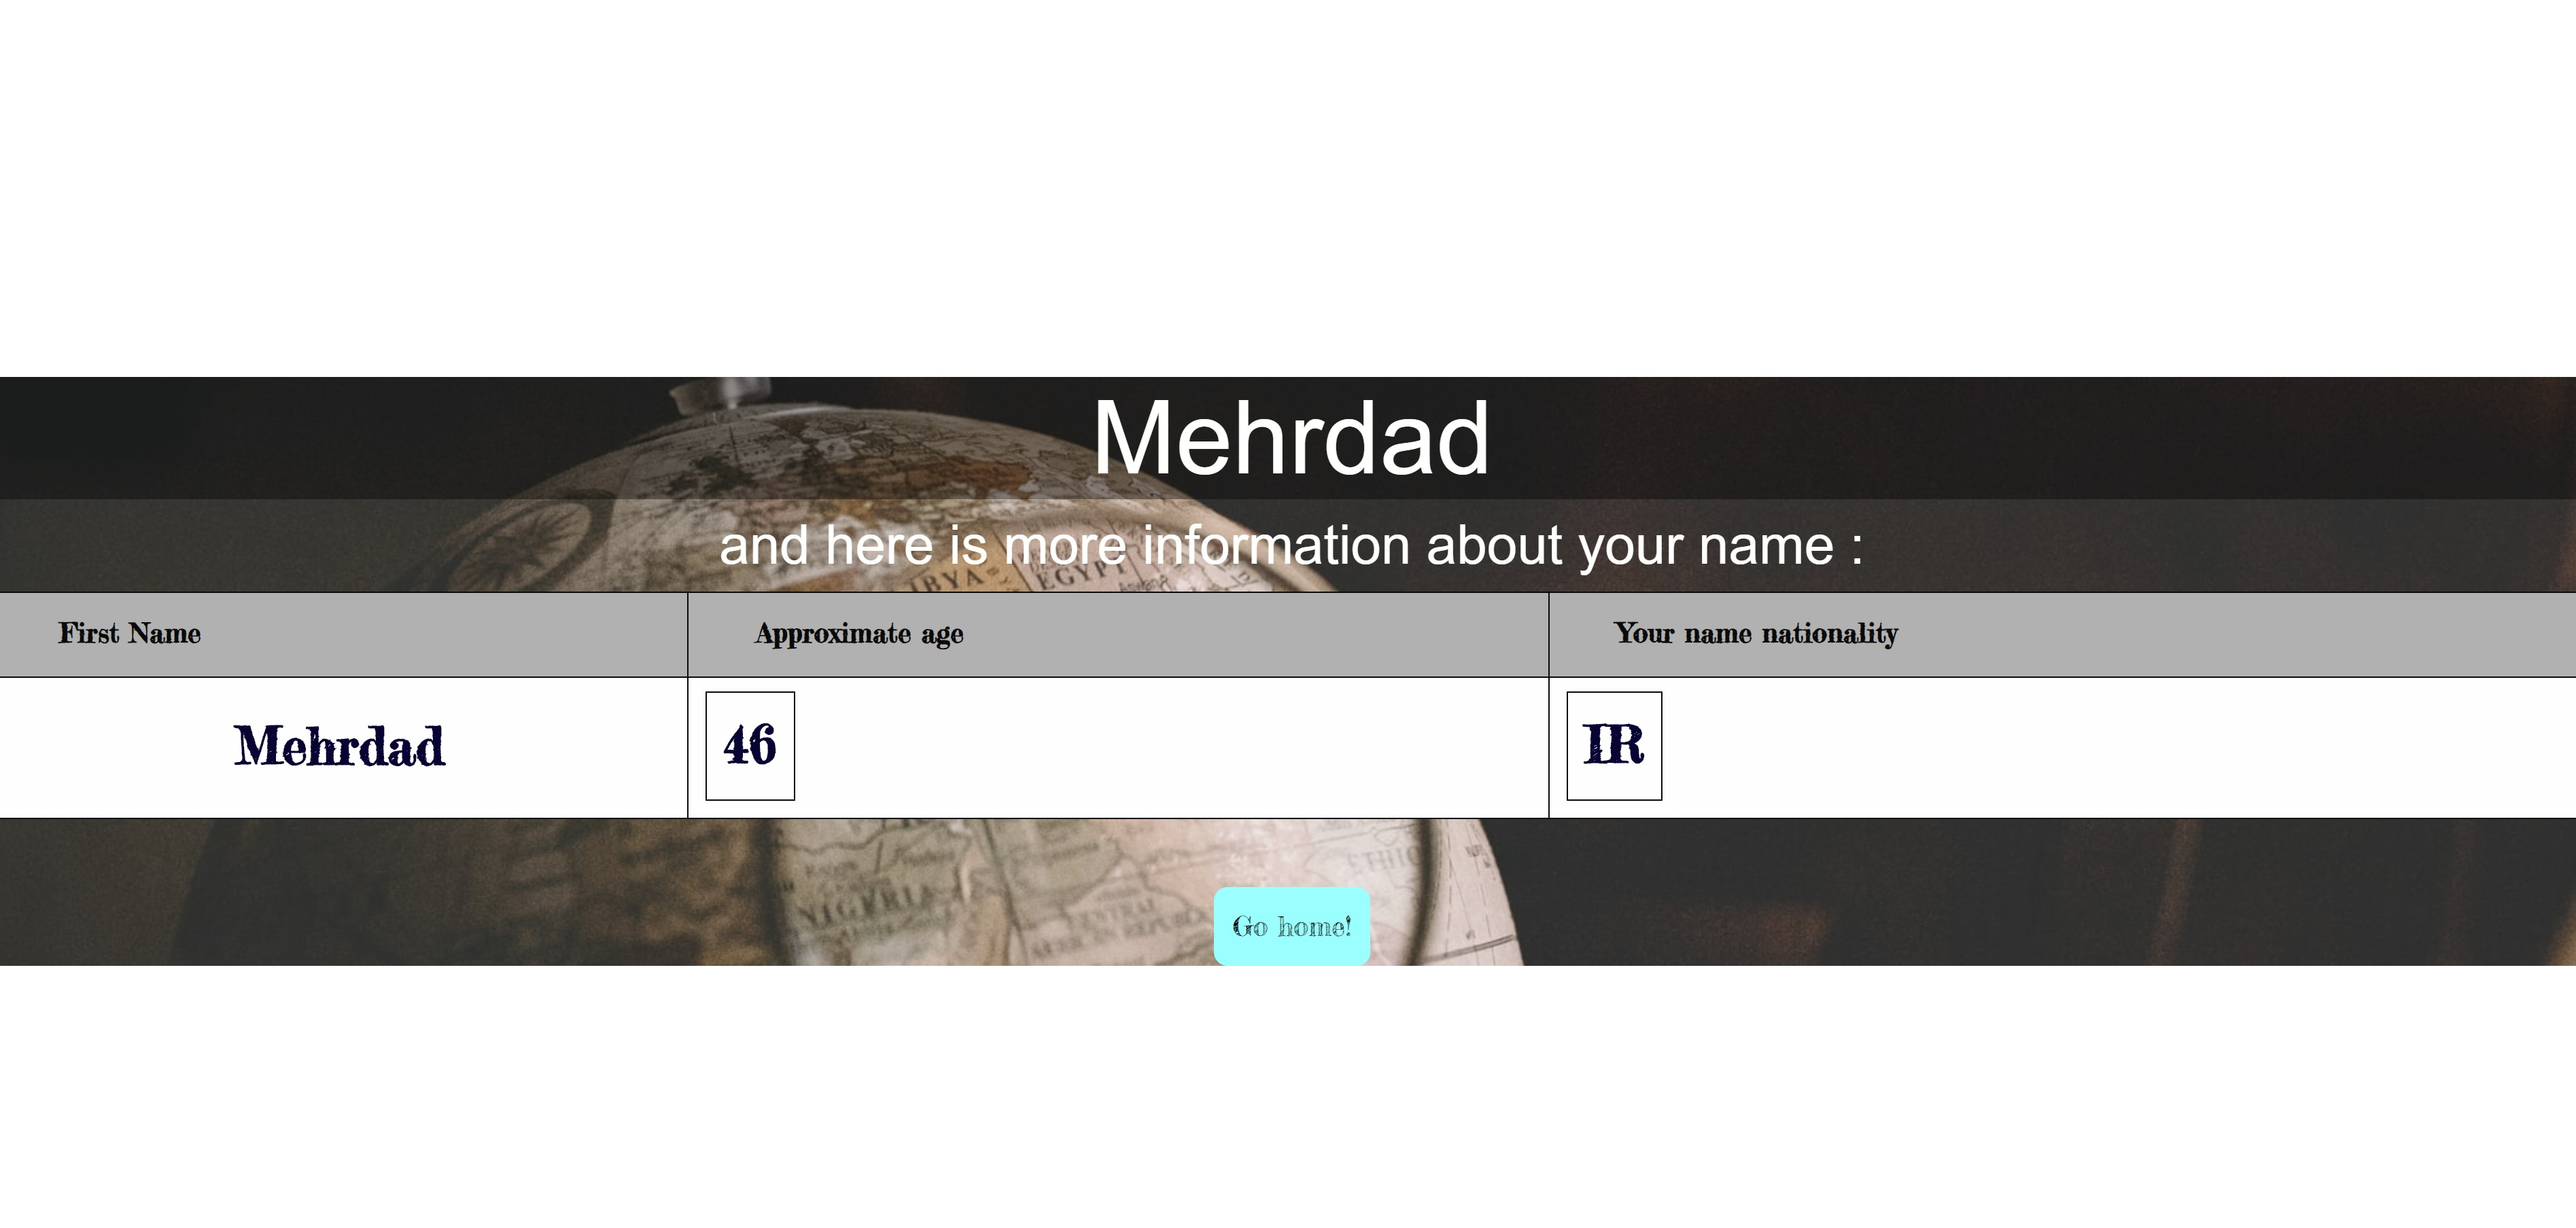
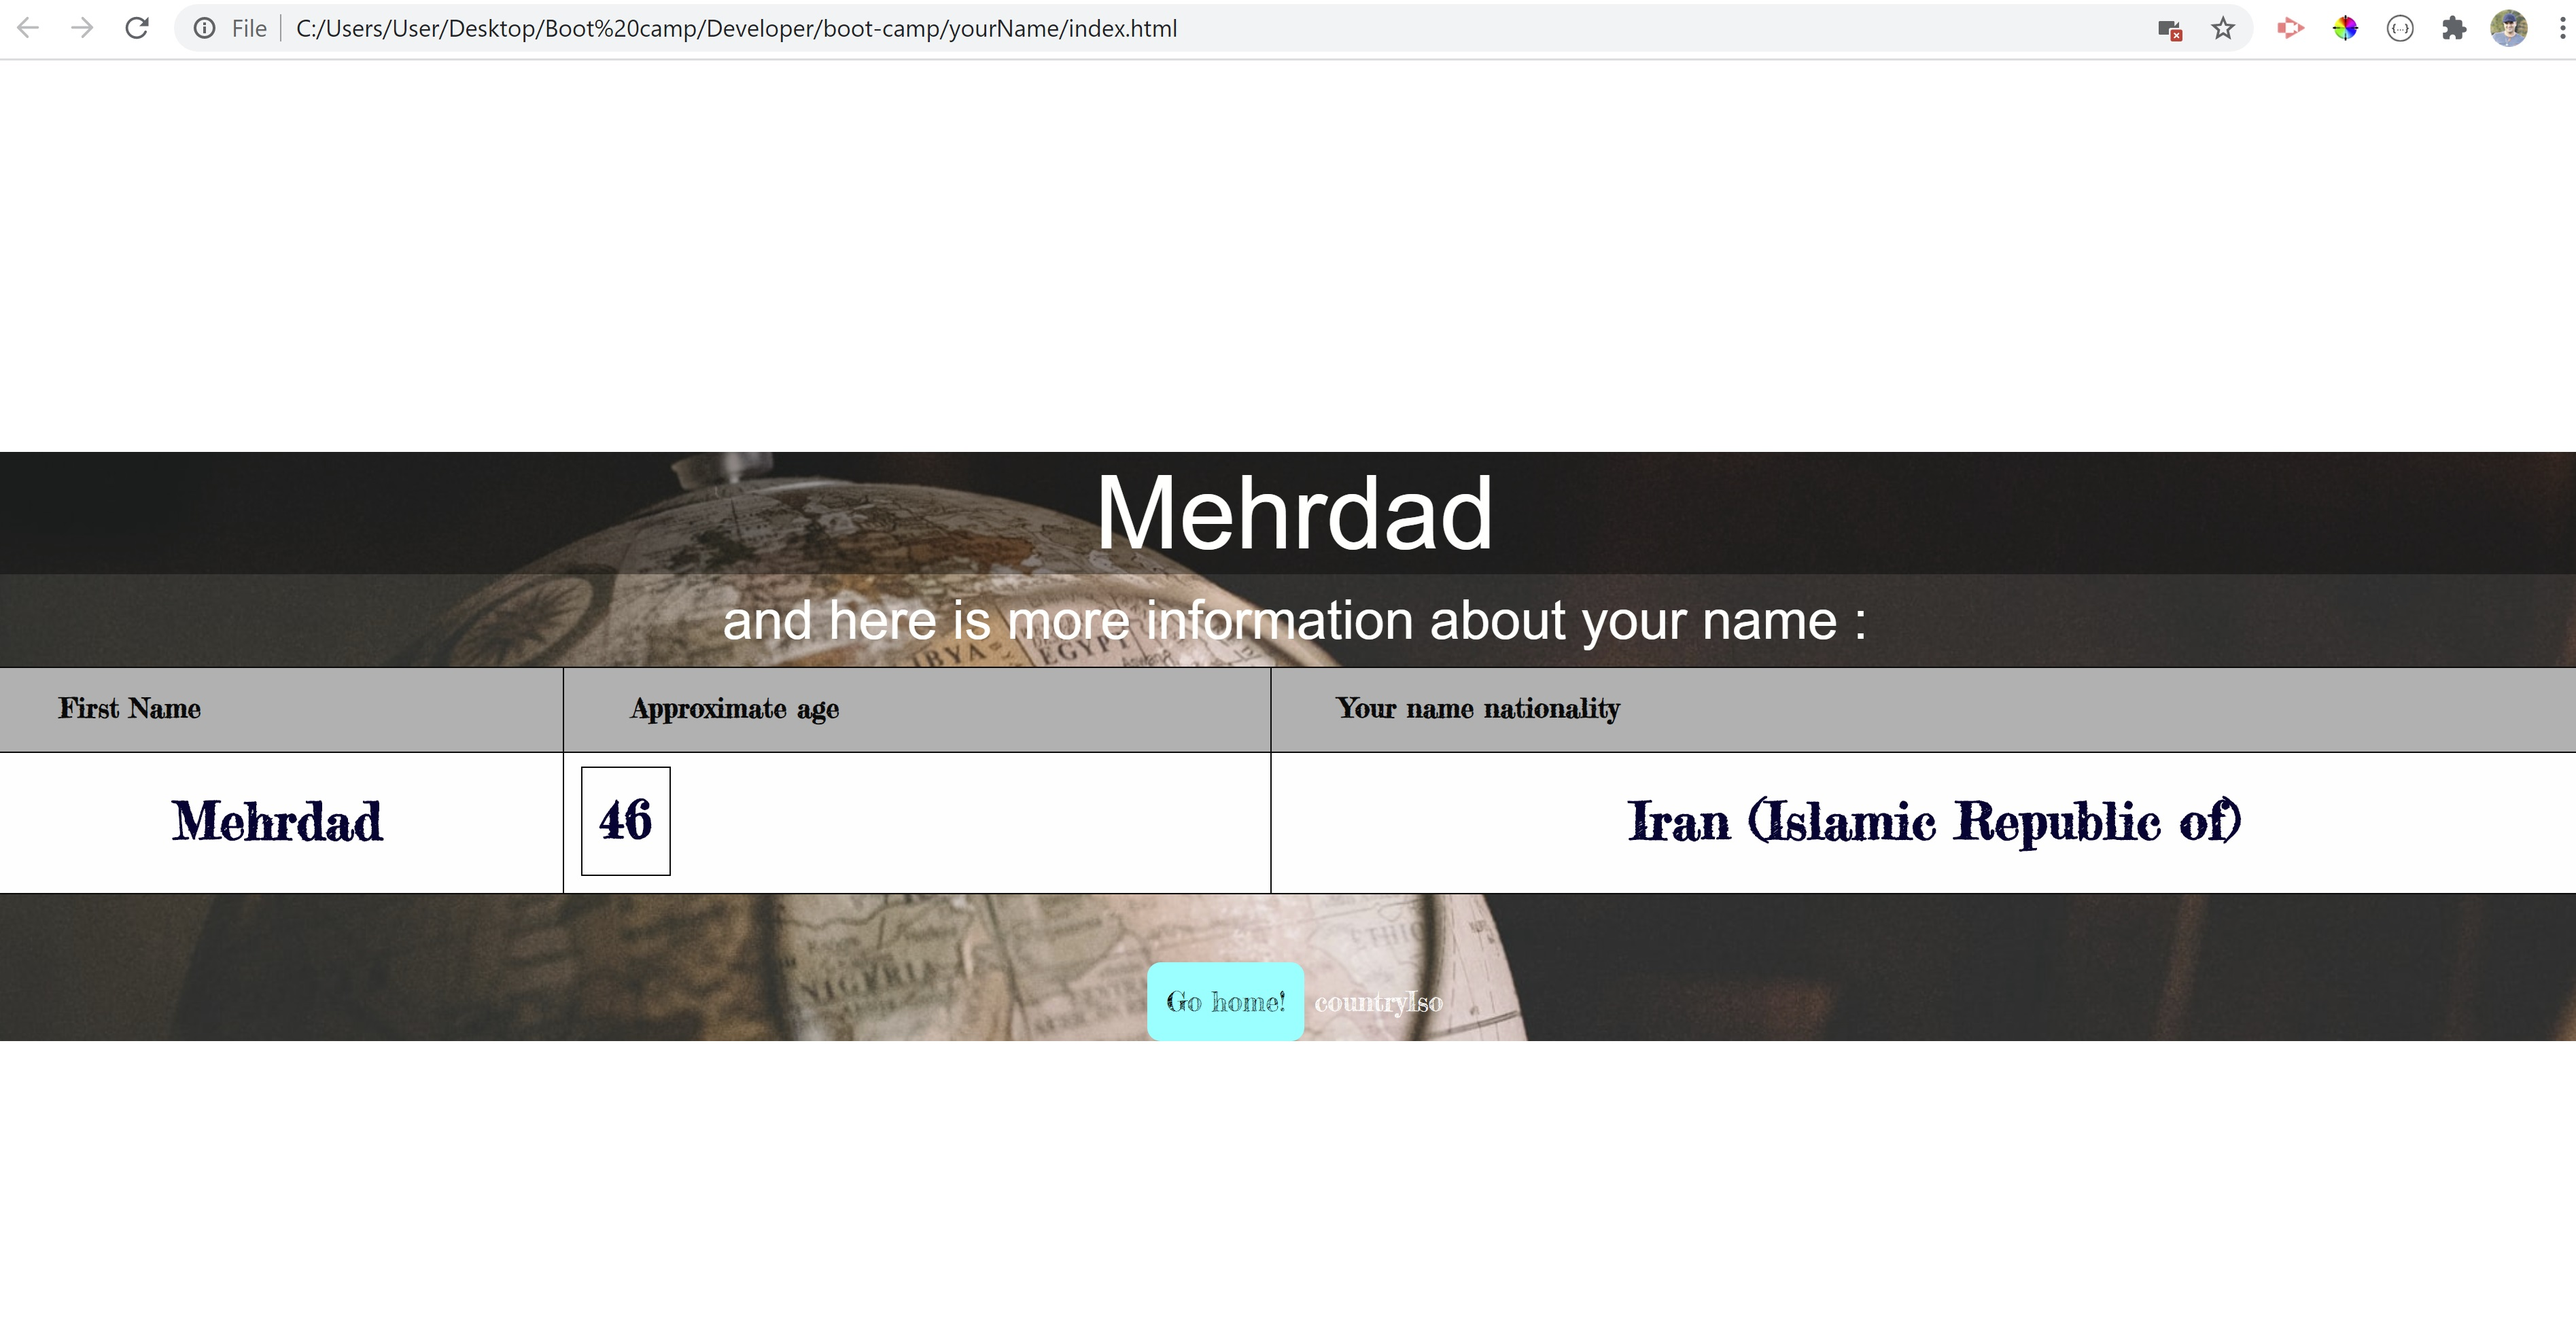
added object properties to my js file and made a new picture of the first and result page

diff --git a/script.js b/script.js
@@ -1,60 +1,3 @@
-
-// added this code for the result function in HTML (Merdad)
-$(function () {
-    $('[data-callout-hover-reveal]').hover(function () {
-        $(this).find('.callout-footer').slideDown(250);
-    }, function () {
-        $(this).find('.callout-footer').slideUp(250);
-    });
-})
-// added this function for converting voice to text(Merdad)
-function record() {
-    var recognition = new webkitSpeechRecognition();
-    recognition.lang = "en-GB";
-
-    recognition.onresult = function (event) {
-        // console.log(event);
-        document.getElementById('speechToText').value = event.results[0][0].transcript;
-    }
-    recognition.start();
-
-}
-// end of voice recognition(Merdad)
-
-
-$("#submit").on("click", function start(event) {
-    event.preventDefault();
-    var name = $("#speechToText").val();
-    var display=document.querySelector("section")
-    display.style.display= "block";
-    var display=document.querySelector("container")
-    display.style.display= "none";
-    var queryUrl = "https://api.agify.io?name=" + name;
-    var queryUrl2 = "https://api.nationalize.io?name=" + name;
-    $.ajax({
-        url: queryUrl,
-        method: "GET"
-    }).then(function (response) {
-        console.log(response);
-        localStorage.setItem("age", JSON.stringify(response));
-        var ageResult = $("<td>").text(response.age);
-        $("#age").append(ageResult);
-    });
-
-    $.ajax({
-        url: queryUrl2,
-        method: "GET"
-    }).then(function (response) {
-        console.log(response);
-        localStorage.setItem("nationality", JSON.stringify(response));
-        var nationalityResult = $("<td>").text(response.country[0].country_id);
-        $("#nationality").append(nationalityResult);
-    })
-    $("#yourName").text(name)
-    $("#first").text(name)
-});
-// got codes below from https://gist.github.com/incredimike/1469814#file-variouscountrylistformats-js-L498 (Merdad)
-// how to access objet value in an object 
 const countryListAlpha2 = {
     "AF": "Afghanistan",
     "AL": "Albania",
@@ -306,3 +249,62 @@ const countryListAlpha2 = {
     "ZW": "Zimbabwe",
     "AX": "Åland Islands"
 };
+// added this code for the result function in HTML (Merdad)
+$(function () {
+    $('[data-callout-hover-reveal]').hover(function () {
+        $(this).find('.callout-footer').slideDown(250);
+    }, function () {
+        $(this).find('.callout-footer').slideUp(250);
+    });
+})
+// added this function for converting voice to text(Merdad)
+function record() {
+    var recognition = new webkitSpeechRecognition();
+    recognition.lang = "en-GB";
+
+    recognition.onresult = function (event) {
+        // console.log(event);
+        document.getElementById('speechToText').value = event.results[0][0].transcript;
+    }
+    recognition.start();
+
+}
+// end of voice recognition(Merdad)
+
+
+$("#submit").on("click", function start(event) {
+    event.preventDefault();
+    var name = $("#speechToText").val();
+    var display=document.querySelector("section")
+    display.style.display= "block";
+    var display=document.querySelector("container")
+    display.style.display= "none";
+    var queryUrl = "https://api.agify.io?name=" + name;
+    var queryUrl2 = "https://api.nationalize.io?name=" + name;
+    $.ajax({
+        url: queryUrl,
+        method: "GET"
+    }).then(function (response) {
+        console.log(response);
+        localStorage.setItem("age", JSON.stringify(response));
+        var ageResult = $("<td>").text(response.age);
+        $("#age").append(ageResult);
+    });
+
+    $.ajax({
+        url: queryUrl2,
+        method: "GET"
+    }).then(function (response) {
+        console.log(response);
+        localStorage.setItem("nationality", JSON.stringify(response));
+        var iso= response.country[0].country_id;
+        var nationalityResult = $("<td>").text(response.country[0].country_id);
+        $("#nationality").append(countryListAlpha2[iso]);
+    
+        console.log();
+    })
+    $("#yourName").text(name)
+    $("#first").text(name)
+});
+// got codes below from https://gist.github.com/incredimike/1469814#file-variouscountrylistformats-js-L498 (Merdad)
+// how to access objet value in an object 

diff --git a/index.html b/index.html
@@ -70,7 +70,7 @@
 
         <!-- all JS and Css files have been added to this HTML (Merdad) -->
         <script src="https://cdnjs.cloudflare.com/ajax/libs/jquery/3.2.1/jquery.min.js"></script>
-        <script src="script.js"></script>
+        <script src="script.js"></script>countryIso 
         <!-- <script src="result.js"></script> -->
 
 </body>
